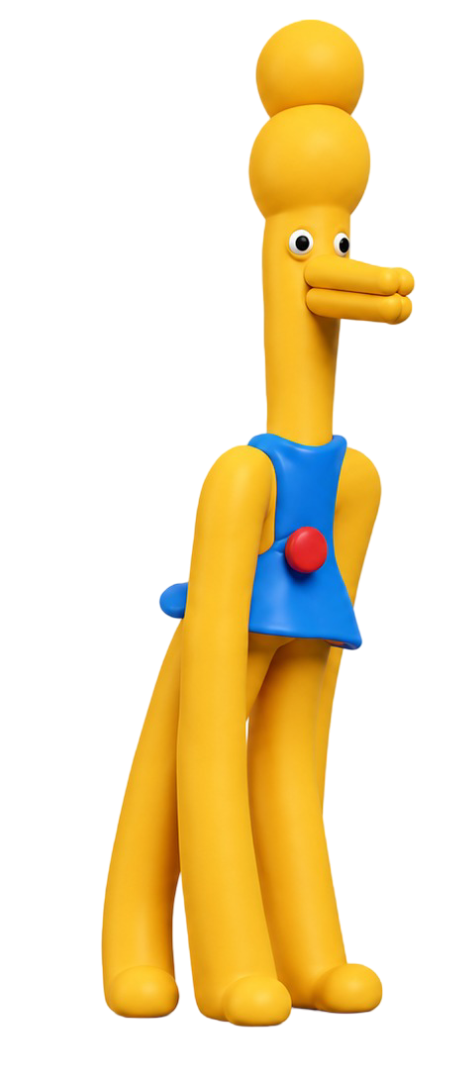
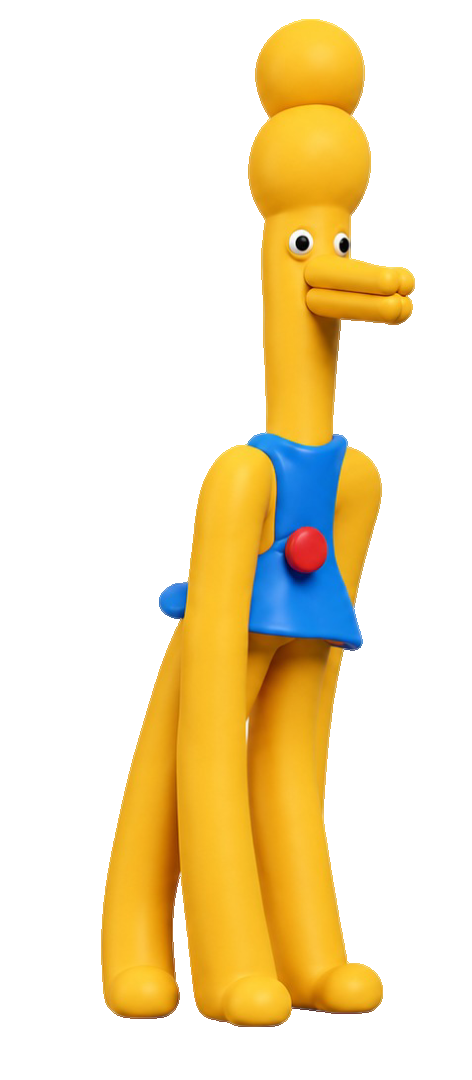
Remove box shadow artifact from profile hero mascot and apply alpha transparency to all mascot images

diff --git a/app/profile/page.tsx b/app/profile/page.tsx
@@ -148,13 +148,13 @@ export default function ProfilePage() {
                 </div>
 
                 {/* Far Right: Clean 3D Mascot Character */}
-                <div className="relative w-36 h-40 lg:w-44 lg:h-44 hidden md:block flex-shrink-0 z-0">
-                  <div className="absolute inset-0 bg-[#F5F8E9] rounded-full blur-xl -z-10" />
+                <div className="relative w-36 h-44 lg:w-44 lg:h-48 hidden md:block flex-shrink-0 z-0">
                   <Image
                     src="/mascots/blue_dress_hat.png"
                     alt="Profile mascot"
                     fill
-                    className="object-contain object-right-bottom scale-110 select-none pointer-events-none drop-shadow-sm"
+                    className="object-contain object-bottom scale-105 select-none pointer-events-none"
+                    priority
                   />
                 </div>
               </div>
